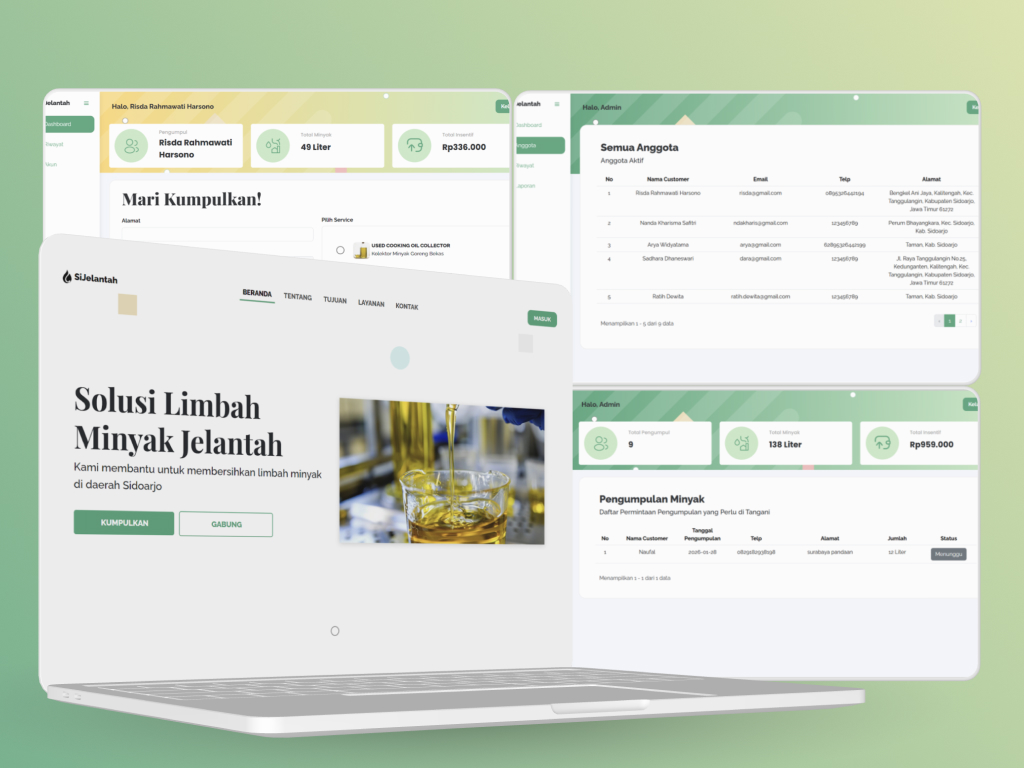
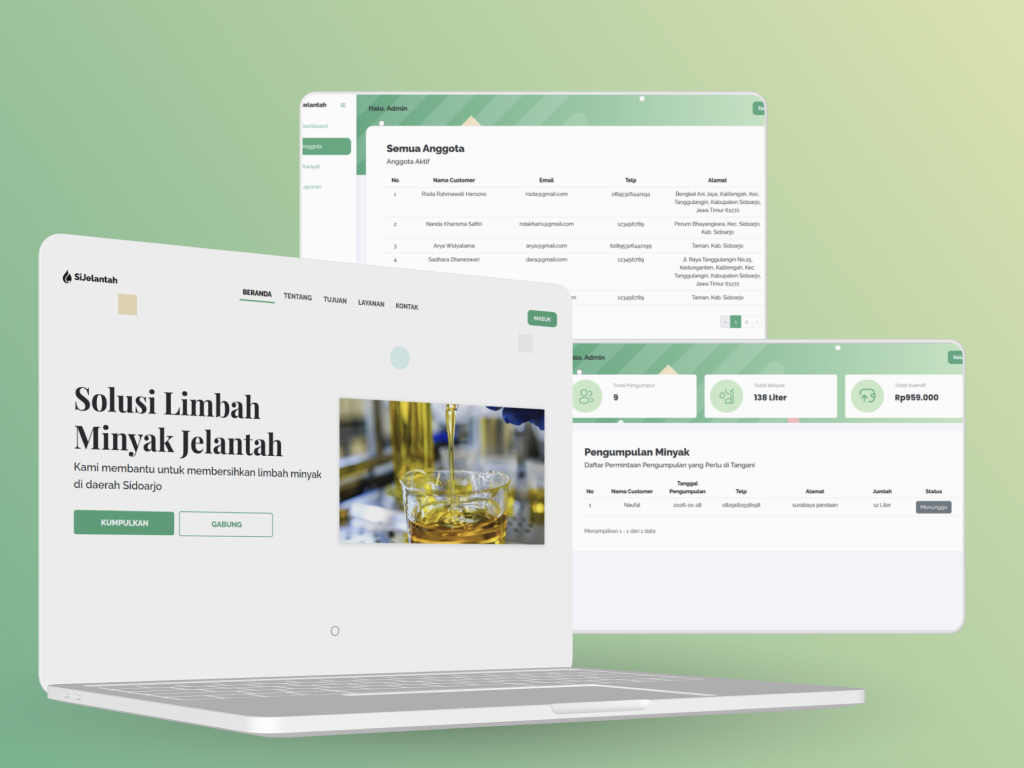
update intro pane

Changed region(s): [[0.0312, 0.0938, 0.9688, 0.9062], [0.5938, 0.75, 0.6562, 0.7812]]

diff --git a/components/PortfolioFolder.tsx b/components/PortfolioFolder.tsx
@@ -243,23 +243,30 @@ export default function PortfolioFolder() {
     </div>
   );
 }
-
 function IntroPane() {
-  const chip =
-    "rounded-md bg-[var(--intro-chip-bg)] px-1.5 py-0.5 font-semibold text-[var(--intro-title)]";
   return (
     <div className="h-full flex flex-col items-center justify-center text-center gap-3 sm:gap-4">
       <h1 className="font-display font-bold text-3xl sm:text-5xl text-[var(--intro-title)]">
-        Hi, I’m Talia!
+        Hi, I'm <span className="text-[var(--accent-contact)]">Talia!</span>
       </h1>
       <h2 className="font-display font-bold text-xl sm:text-3xl text-[var(--intro-subtitle)]">
-        I’m a Software Developer
+        I'm a Software Developer
       </h2>
       <p className="font-body text-sm sm:text-xl leading-relaxed text-[var(--intro-body)] max-w-[34rem] pt-1 sm:pt-2">
         I transform complex ideas into clean, scalable web &amp; mobile solutions
         combining intuitive UI/UX design with robust architectures using{" "}
-        <span className={chip}>React</span>, <span className={chip}>Next.js</span>,{" "}
-        <span className={chip}>TypeScript</span>, and modern backend tech.
+        <span className="font-semibold" style={{ color: "var(--accent-project)" }}>
+          React
+        </span>
+        ,{" "}
+        <span className="font-semibold" style={{ color: "var(--accent-cert)" }}>
+          Next.js
+        </span>
+        ,{" "}
+        <span className="font-semibold" style={{ color: "var(--accent-contact)" }}>
+          TypeScript
+        </span>
+        , and modern backend tech.
       </p>
     </div>
   );
